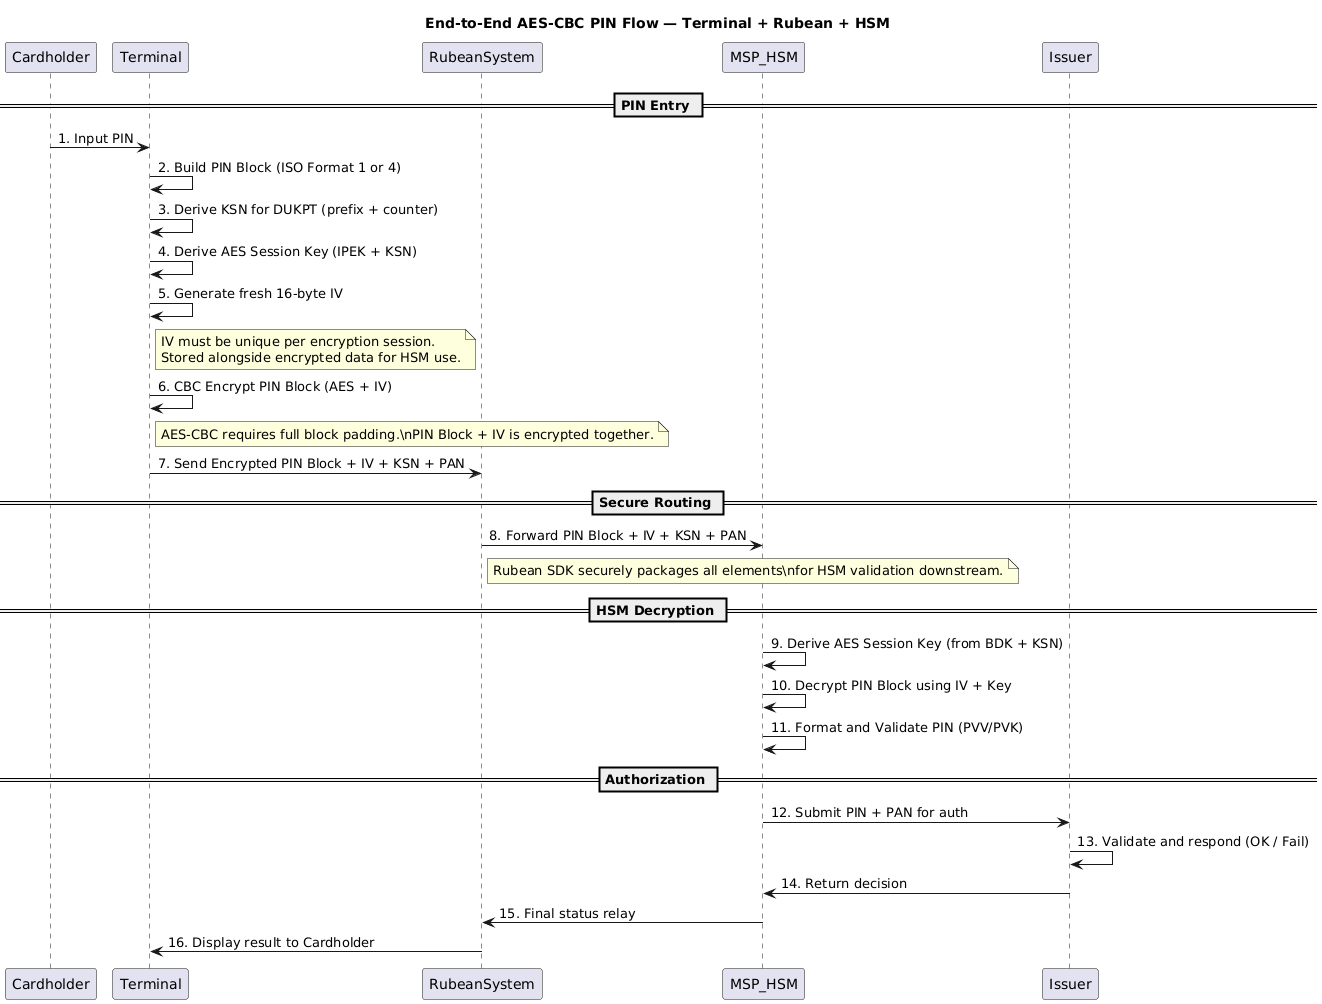
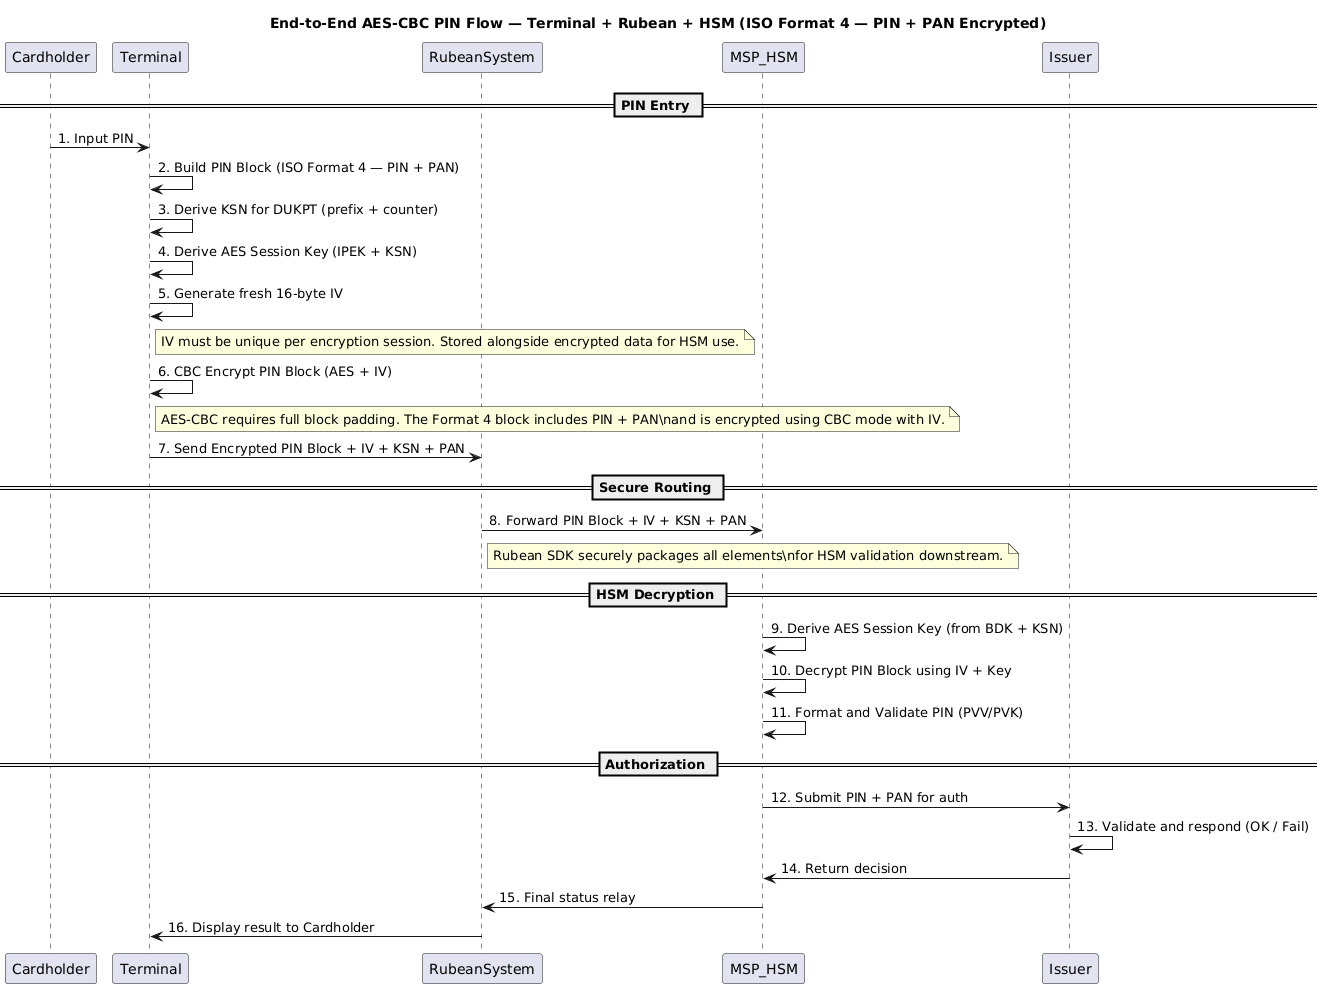
corrected format 4 PAN for PIN BLOCK

diff --git a/hsm/dukpt_aes/DUKPT_Client.cpp b/hsm/dukpt_aes/DUKPT_Client.cpp
@@ -16,26 +16,24 @@ inline void printHex(const std::string &label, const std::vector<uint8_t> &data)
     std::cout << std::dec << std::endl;
 }
 
-std::string extractPIN(const std::vector<uint8_t> &pinBlock)
+std::string extractPIN(const std::vector<uint8_t> &decryptedBlock, size_t pinLength)
+{
+    if (decryptedBlock.size() < pinLength)
+        return "";
+
+    std::string pin;
+    for (size_t i = 0; i < pinLength; ++i)
     {
-        if (pinBlock.empty())
-            return "";
-
-        size_t pinLength = pinBlock[0]; // First byte = length
-        std::string pin;
-
-        for (size_t i = 1; i <= pinLength; ++i)
-        {
-            uint8_t digit = pinBlock[i];
-            pin += std::to_string(digit);
-        }
-
-        return pin;
+        pin += std::to_string(decryptedBlock[i]);
     }
+
+    return pin;
+}
 
 int main()
 {
     std::string pin = "1234";
+    std::string pan = "1234567890123456"; // PAN must be 12 rightmost digits excluding check digit
     std::cout << "PIN: " << pin << std::endl;
 
     std::vector<uint8_t> bdk = {
@@ -47,27 +45,27 @@ int main()
         0x32, 0x10, 0xE0, 0x00, 0x00 // masked bits still intact
     };
 
-    // Generate PIN Block
-    auto pinBlock = Format4PinBlock::generate(pin);
-    printHex("Format 4 PIN Block (Clear)", pinBlock);
-
     printHex("KSN", ksn);
 
-    // Derive Session Key
+    // Derive session key
     DUKPTKeyDerivation dukpt(bdk);
     auto sessionKey = dukpt.deriveKey(ksn);
 
-    // Encrypt PIN Block with Session Key
+    // Generate Format 4 PIN block (PIN + PAN combined, padded to 16 bytes)
+    auto pinBlock = Format4PinBlock::generate(pin, pan);
+    printHex("Format 4 PIN Block (Clear)", pinBlock);
+
+    // Encrypt PIN Block with session key (AES-ECB or CBC if preferred)
     auto encryptedBlock = dukpt.aesEncryptECB(sessionKey, pinBlock);
     printHex("Encrypted PIN Block", encryptedBlock);
 
-    // In HSM
+    // Simulate HSM decryption
     auto decryptedBlock = DukptHsm::aesDecryptECB(sessionKey, encryptedBlock);
     printHex("Decrypted PIN Block", decryptedBlock);
 
     // Extract PIN from decrypted block
-    std::string extractedPin = extractPIN(decryptedBlock);
-    std::cout << "Extracted PIN: " << pin << std::endl;
+    std::string extractedPin = extractPIN(decryptedBlock, pin.length());
+    std::cout << "Extracted PIN: " << extractedPin << std::endl;
 
     return 0;
 }

diff --git a/hsm/dukpt_aes/Format4PinBlock.cpp b/hsm/dukpt_aes/Format4PinBlock.cpp
@@ -1,21 +1,45 @@
 #include "Format4PinBlock.hpp"
-#include <random>
+#include <iomanip>
+#include <sstream>
+#include <cctype>
+#include <stdexcept>
 
-std::vector<uint8_t> Format4PinBlock::generate(const std::string& pin) {
-    std::vector<uint8_t> block(16);
-    block[0] = static_cast<uint8_t>(pin.length());
+std::vector<uint8_t> Format4PinBlock::generate(const std::string &pin, const std::string &pan)
+{
+    // Validate PIN
+    if (pin.empty() || pin.length() > 12)
+        throw std::invalid_argument("Invalid PIN length. Must be 1–12 digits.");
+    for (char c : pin)
+        if (!std::isdigit(c))
+            throw std::invalid_argument("PIN must contain only digits.");
 
-    for (size_t i = 0; i < pin.length(); ++i) {
-        block[i + 1] = static_cast<uint8_t>(pin[i] - '0');
-    }
+    // Validate PAN
+    if (pan.length() < 13)
+        throw std::invalid_argument("Invalid PAN length. Must be at least 13 digits.");
+    for (char c : pan)
+        if (!std::isdigit(c))
+            throw std::invalid_argument("PAN must contain only digits.");
 
-    std::random_device rd;
-    std::mt19937 gen(rd());
-    std::uniform_int_distribution<uint8_t> dist(1, 255); 
+    // Extract 12 digits from PAN: rightmost 13 digits, excluding check digit
+    std::string pan12 = pan.substr(pan.length() - 13, 12);
 
-    for (size_t i = pin.length() + 1; i < 16; ++i) {
-        block[i] = dist(gen);
-    }
+    std::vector<uint8_t> pinBlock;
 
-    return block;
+    // Add PIN digits
+    for (char c : pin)
+        pinBlock.push_back(static_cast<uint8_t>(c - '0'));
+
+    // Pad PIN digits with 0xFF until we have 4 bytes
+    while (pinBlock.size() < 4)
+        pinBlock.push_back(0xFF);
+
+    // Add PAN12 digits (12 bytes)
+    for (char c : pan12)
+        pinBlock.push_back(static_cast<uint8_t>(c - '0'));
+
+    // Ensure final block is 16 bytes
+    if (pinBlock.size() != 16)
+        throw std::runtime_error("Generated PIN block must be exactly 16 bytes");
+
+    return pinBlock;
 }

diff --git a/hsm/dukpt_aes/Format4PinBlock.hpp b/hsm/dukpt_aes/Format4PinBlock.hpp
@@ -4,5 +4,5 @@
 
 class Format4PinBlock {
 public:
-    static std::vector<uint8_t> generate(const std::string& pin);
+    static std::vector<uint8_t> generate(const std::string &pin, const std::string &pan);
 };
